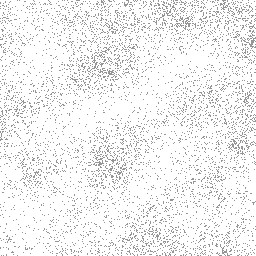
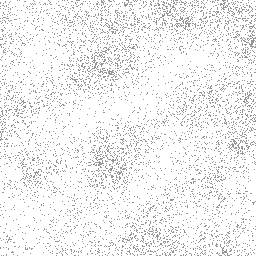
.

diff --git a/scripts/convert_biomes.go b/scripts/convert_biomes.go
@@ -10,7 +10,7 @@ import (
 )
 
 func main() {
-	files, err := filepath.Glob("../biomes/*.png")
+	files, err := filepath.Glob("../biomes-png/*.png")
 	if err != nil {
 		log.Fatal(err)
 	}
@@ -26,15 +26,16 @@ func main() {
 		}
 		base := filepath.Base(f)
 		name := strings.TrimSuffix(base, ".png") + ".jpg"
-		outName := filepath.Join(filepath.Dir(f), name)
+		outName := filepath.Join("../biomes/", name)
 		out, err := os.Create(outName)
 		if err != nil {
 			log.Fatal(err)
 		}
-		if err := jpeg.Encode(out, img, &jpeg.Options{Quality: 90}); err != nil {
+		if err := jpeg.Encode(out, img, &jpeg.Options{Quality: 70}); err != nil {
 			out.Close()
 			log.Fatal(err)
 		}
+		log.Printf("Converted: %v\n", name)
 		out.Close()
 	}
 }
